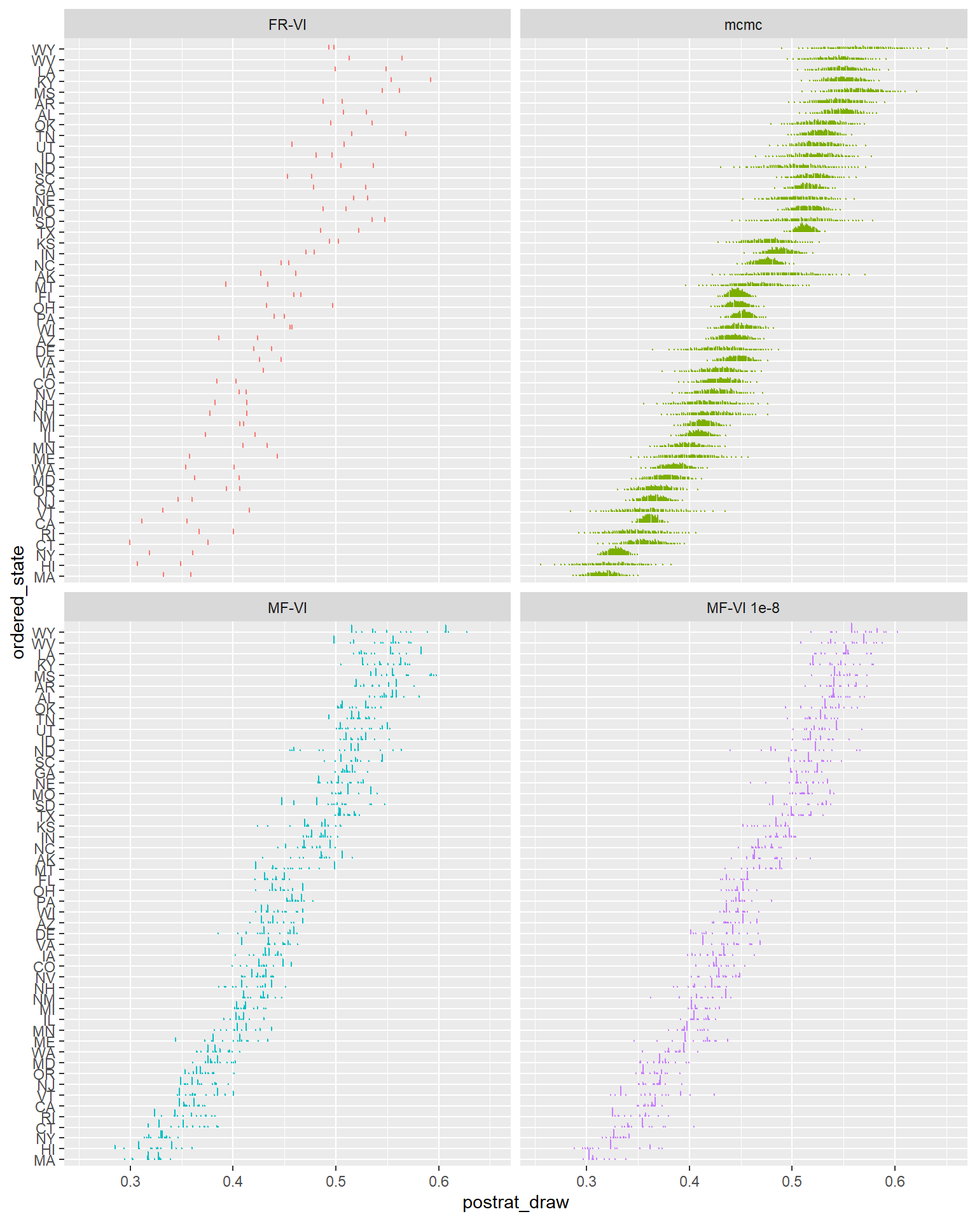
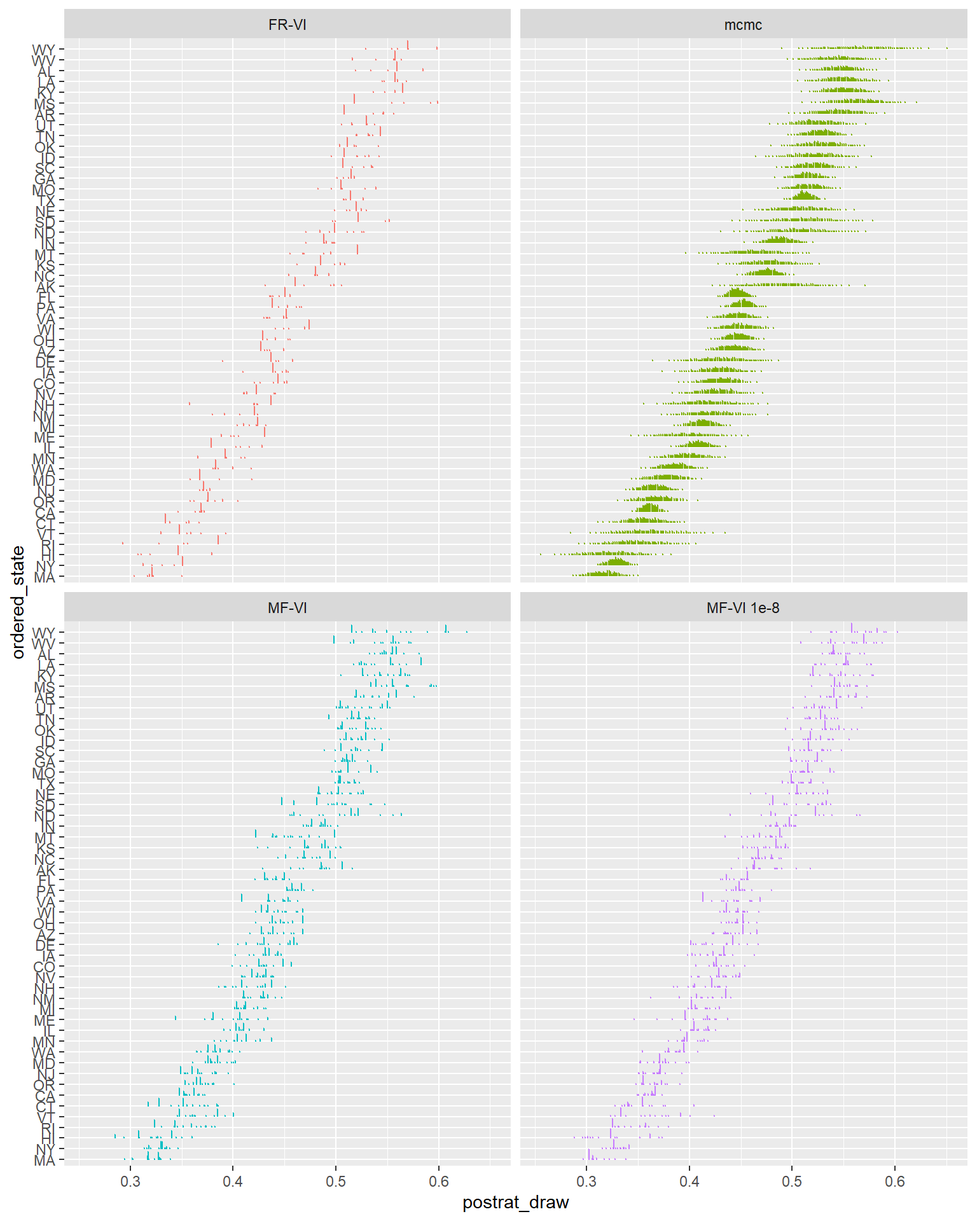
Realized the issue was plateau in loss and adjusted text to show that

diff --git a/docs/posts/Variational MRP Pt2/Variational_MRP_pt2.html b/docs/posts/Variational MRP Pt2/Variational_MRP_pt2.html
@@ -427,7 +427,7 @@ $ .epred     &lt;dbl&gt; 0.5771322, 0.5189677, 0.5483006, 0.5421404, 0.5417602, 
 <section id="lowering-the-tolerance" class="level2">
 <h2 class="anchored" data-anchor-id="lowering-the-tolerance">Lowering the tolerance</h2>
 <p>So we managed to structure our Bayesian inference problem as an optimization problem. Can’t we just optimize better? Maybe with more training the result will be less bad?</p>
-<p>the <code>tol_rel_obj</code> parameter control’s the convergence tolerance on the relative norm of the objective. In other words, it controls what Evidence Lower Bound value we consider accurate enough to stop at. The default is 0.01, which feels a bit opaque, but let’s try setting it way down to 1e-8 (1Mx lower). Then we can plot it alongside the MCMC estimates and original MF-VI attempt.</p>
+<p>the <code>tol_rel_obj</code> parameter control’s the convergence tolerance on the relative norm of the objective. In other words, it controls what Evidence Lower Bound value we consider accurate enough to stop at. The default is 0.01, which feels a bit opaque, but let’s try setting it way down to 1e-8 (1Mx lower), and further, let’s increase the max iterations 10x. Then we can plot it alongside the MCMC estimates and original MF-VI attempt.</p>
 <div class="cell" data-warnings="false">
 <div class="sourceCode cell-code" id="cb6"><pre class="sourceCode r code-with-copy"><code class="sourceCode r"><span id="cb6-1"><a href="#cb6-1" aria-hidden="true" tabindex="-1"></a><span class="fu">tic</span>()</span>
 <span id="cb6-2"><a href="#cb6-2" aria-hidden="true" tabindex="-1"></a>fit_60k_1e8 <span class="ot">&lt;-</span> <span class="fu">stan_glmer</span>(abortion <span class="sc">~</span> (<span class="dv">1</span> <span class="sc">|</span> state) <span class="sc">+</span> (<span class="dv">1</span> <span class="sc">|</span> eth) <span class="sc">+</span> (<span class="dv">1</span> <span class="sc">|</span> educ) <span class="sc">+</span></span>
@@ -438,10 +438,141 @@ $ .epred     &lt;dbl&gt; 0.5771322, 0.5189677, 0.5483006, 0.5421404, 0.5417602, 
 <span id="cb6-7"><a href="#cb6-7" aria-hidden="true" tabindex="-1"></a>  <span class="at">prior =</span> <span class="fu">normal</span>(<span class="dv">0</span>, <span class="dv">1</span>, <span class="at">autoscale =</span> <span class="cn">TRUE</span>),</span>
 <span id="cb6-8"><a href="#cb6-8" aria-hidden="true" tabindex="-1"></a>  <span class="at">prior_covariance =</span> <span class="fu">decov</span>(<span class="at">scale =</span> <span class="fl">0.50</span>),</span>
 <span id="cb6-9"><a href="#cb6-9" aria-hidden="true" tabindex="-1"></a>  <span class="at">adapt_delta =</span> <span class="fl">0.99</span>,</span>
-<span id="cb6-10"><a href="#cb6-10" aria-hidden="true" tabindex="-1"></a>  <span class="at">refresh =</span> <span class="dv">0</span>,</span>
-<span id="cb6-11"><a href="#cb6-11" aria-hidden="true" tabindex="-1"></a>  <span class="at">tol_rel_obj =</span> <span class="fl">1e-8</span>,</span>
-<span id="cb6-12"><a href="#cb6-12" aria-hidden="true" tabindex="-1"></a>  <span class="at">algorithm =</span> <span class="st">"meanfield"</span>,</span>
-<span id="cb6-13"><a href="#cb6-13" aria-hidden="true" tabindex="-1"></a>  <span class="at">seed =</span> <span class="dv">605</span>)</span></code><button title="Copy to Clipboard" class="code-copy-button"><i class="bi"></i></button></pre></div>
+<span id="cb6-10"><a href="#cb6-10" aria-hidden="true" tabindex="-1"></a>  <span class="co"># Printing the ELBO every 1k draws</span></span>
+<span id="cb6-11"><a href="#cb6-11" aria-hidden="true" tabindex="-1"></a>  <span class="at">refresh =</span> <span class="dv">1000</span>,</span>
+<span id="cb6-12"><a href="#cb6-12" aria-hidden="true" tabindex="-1"></a>  <span class="at">tol_rel_obj =</span> <span class="fl">1e-8</span>,</span>
+<span id="cb6-13"><a href="#cb6-13" aria-hidden="true" tabindex="-1"></a>  <span class="at">algorithm =</span> <span class="st">"meanfield"</span>,</span>
+<span id="cb6-14"><a href="#cb6-14" aria-hidden="true" tabindex="-1"></a>  <span class="at">seed =</span> <span class="dv">605</span>)</span></code><button title="Copy to Clipboard" class="code-copy-button"><i class="bi"></i></button></pre></div>
+<div class="cell-output cell-output-stdout">
+<pre><code>Chain 1: ------------------------------------------------------------
+Chain 1: EXPERIMENTAL ALGORITHM:
+Chain 1:   This procedure has not been thoroughly tested and may be unstable
+Chain 1:   or buggy. The interface is subject to change.
+Chain 1: ------------------------------------------------------------
+Chain 1: 
+Chain 1: 
+Chain 1: 
+Chain 1: Gradient evaluation took 0.022 seconds
+Chain 1: 1000 transitions using 10 leapfrog steps per transition would take 220 seconds.
+Chain 1: Adjust your expectations accordingly!
+Chain 1: 
+Chain 1: 
+Chain 1: Begin eta adaptation.
+Chain 1: Iteration:   1 / 250 [  0%]  (Adaptation)
+Chain 1: Iteration:  50 / 250 [ 20%]  (Adaptation)
+Chain 1: Iteration: 100 / 250 [ 40%]  (Adaptation)
+Chain 1: Iteration: 150 / 250 [ 60%]  (Adaptation)
+Chain 1: Iteration: 200 / 250 [ 80%]  (Adaptation)
+Chain 1: Success! Found best value [eta = 1] earlier than expected.
+Chain 1: 
+Chain 1: Begin stochastic gradient ascent.
+Chain 1:   iter             ELBO   delta_ELBO_mean   delta_ELBO_med   notes 
+Chain 1:    100       -40291.889             1.000            1.000
+Chain 1:    200       -39947.669             0.504            1.000
+Chain 1:    300       -39802.182             0.337            0.009
+Chain 1:    400       -39776.283             0.253            0.009
+Chain 1:    500       -39733.863             0.203            0.004
+Chain 1:    600       -39733.198             0.169            0.004
+Chain 1:    700       -39728.255             0.145            0.001
+Chain 1:    800       -39784.557             0.127            0.001
+Chain 1:    900       -39724.366             0.113            0.001
+Chain 1:   1000       -39732.042             0.102            0.001
+Chain 1:   1100       -39731.525             0.002            0.001
+Chain 1:   1200       -39732.049             0.001            0.001
+Chain 1:   1300       -39728.119             0.001            0.000
+Chain 1:   1400       -39740.928             0.000            0.000
+Chain 1:   1500       -39726.114             0.000            0.000
+Chain 1:   1600       -39734.740             0.000            0.000
+Chain 1:   1700       -39734.129             0.000            0.000
+Chain 1:   1800       -39740.719             0.000            0.000
+Chain 1:   1900       -39743.591             0.000            0.000
+Chain 1:   2000       -39737.155             0.000            0.000
+Chain 1:   2100       -39720.432             0.000            0.000
+Chain 1:   2200       -39738.138             0.000            0.000
+Chain 1:   2300       -39731.045             0.000            0.000
+Chain 1:   2400       -39716.393             0.000            0.000
+Chain 1:   2500       -39729.189             0.000            0.000
+Chain 1:   2600       -39722.239             0.000            0.000
+Chain 1:   2700       -39719.508             0.000            0.000
+Chain 1:   2800       -39718.709             0.000            0.000
+Chain 1:   2900       -39735.110             0.000            0.000
+Chain 1:   3000       -39725.900             0.000            0.000
+Chain 1:   3100       -39726.123             0.000            0.000
+Chain 1:   3200       -39718.736             0.000            0.000
+Chain 1:   3300       -39718.141             0.000            0.000
+Chain 1:   3400       -39717.147             0.000            0.000
+Chain 1:   3500       -39725.738             0.000            0.000
+Chain 1:   3600       -39732.190             0.000            0.000
+Chain 1:   3700       -39723.666             0.000            0.000
+Chain 1:   3800       -39725.470             0.000            0.000
+Chain 1:   3900       -39741.504             0.000            0.000
+Chain 1:   4000       -39722.951             0.000            0.000
+Chain 1:   4100       -39721.852             0.000            0.000
+Chain 1:   4200       -39717.894             0.000            0.000
+Chain 1:   4300       -39717.474             0.000            0.000
+Chain 1:   4400       -39716.244             0.000            0.000
+Chain 1:   4500       -39727.542             0.000            0.000
+Chain 1:   4600       -39716.670             0.000            0.000
+Chain 1:   4700       -39723.714             0.000            0.000
+Chain 1:   4800       -39727.123             0.000            0.000
+Chain 1:   4900       -39722.517             0.000            0.000
+Chain 1:   5000       -39722.485             0.000            0.000
+Chain 1:   5100       -39719.107             0.000            0.000
+Chain 1:   5200       -39722.873             0.000            0.000
+Chain 1:   5300       -39720.153             0.000            0.000
+Chain 1:   5400       -39718.807             0.000            0.000
+Chain 1:   5500       -39719.687             0.000            0.000
+Chain 1:   5600       -39730.850             0.000            0.000
+Chain 1:   5700       -39719.315             0.000            0.000
+Chain 1:   5800       -39717.985             0.000            0.000
+Chain 1:   5900       -39715.943             0.000            0.000
+Chain 1:   6000       -39721.574             0.000            0.000
+Chain 1:   6100       -39716.072             0.000            0.000
+Chain 1:   6200       -39715.947             0.000            0.000
+Chain 1:   6300       -39716.325             0.000            0.000
+Chain 1:   6400       -39716.206             0.000            0.000
+Chain 1:   6500       -39720.508             0.000            0.000
+Chain 1:   6600       -39717.566             0.000            0.000
+Chain 1:   6700       -39718.903             0.000            0.000
+Chain 1:   6800       -39716.766             0.000            0.000
+Chain 1:   6900       -39724.482             0.000            0.000
+Chain 1:   7000       -39717.376             0.000            0.000
+Chain 1:   7100       -39721.566             0.000            0.000
+Chain 1:   7200       -39725.641             0.000            0.000
+Chain 1:   7300       -39717.909             0.000            0.000
+Chain 1:   7400       -39720.096             0.000            0.000
+Chain 1:   7500       -39716.243             0.000            0.000
+Chain 1:   7600       -39738.451             0.000            0.000
+Chain 1:   7700       -39715.841             0.000            0.000
+Chain 1:   7800       -39716.561             0.000            0.000
+Chain 1:   7900       -39716.865             0.000            0.000
+Chain 1:   8000       -39721.972             0.000            0.000
+Chain 1:   8100       -39723.864             0.000            0.000
+Chain 1:   8200       -39716.157             0.000            0.000
+Chain 1:   8300       -39720.235             0.000            0.000
+Chain 1:   8400       -39718.693             0.000            0.000
+Chain 1:   8500       -39727.325             0.000            0.000
+Chain 1:   8600       -39716.809             0.000            0.000
+Chain 1:   8700       -39716.760             0.000            0.000
+Chain 1:   8800       -39721.577             0.000            0.000
+Chain 1:   8900       -39716.910             0.000            0.000
+Chain 1:   9000       -39721.631             0.000            0.000
+Chain 1:   9100       -39721.102             0.000            0.000
+Chain 1:   9200       -39718.303             0.000            0.000
+Chain 1:   9300       -39715.759             0.000            0.000
+Chain 1:   9400       -39719.769             0.000            0.000
+Chain 1:   9500       -39719.046             0.000            0.000
+Chain 1:   9600       -39720.854             0.000            0.000
+Chain 1:   9700       -39717.968             0.000            0.000
+Chain 1:   9800       -39721.396             0.000            0.000
+Chain 1:   9900       -39728.139             0.000            0.000
+Chain 1:   10000       -39715.367             0.000            0.000
+Chain 1: Informational Message: The maximum number of iterations is reached! The algorithm may not have converged.
+Chain 1: This variational approximation is not guaranteed to be meaningful.
+Chain 1: 
+Chain 1: Drawing a sample of size 1000 from the approximate posterior... 
+Chain 1: COMPLETED.</code></pre>
+</div>
 <div class="cell-output cell-output-stderr">
 <pre><code>Warning: Pareto k diagnostic value is 2.05. Resampling is disabled. Decreasing
 tol_rel_obj may help if variational algorithm has terminated prematurely.
@@ -450,92 +581,96 @@ Otherwise consider using sampling instead.</code></pre>
 <div class="cell-output cell-output-stderr">
 <pre><code>Setting 'QR' to TRUE can often be helpful when using one of the variational inference algorithms. See the documentation for the 'QR' argument.</code></pre>
 </div>
-<div class="sourceCode cell-code" id="cb9"><pre class="sourceCode r code-with-copy"><code class="sourceCode r"><span id="cb9-1"><a href="#cb9-1" aria-hidden="true" tabindex="-1"></a><span class="fu">toc</span>()</span></code><button title="Copy to Clipboard" class="code-copy-button"><i class="bi"></i></button></pre></div>
+<div class="sourceCode cell-code" id="cb10"><pre class="sourceCode r code-with-copy"><code class="sourceCode r"><span id="cb10-1"><a href="#cb10-1" aria-hidden="true" tabindex="-1"></a><span class="fu">toc</span>()</span></code><button title="Copy to Clipboard" class="code-copy-button"><i class="bi"></i></button></pre></div>
 <div class="cell-output cell-output-stdout">
-<pre><code>332.94 sec elapsed</code></pre>
+<pre><code>256 sec elapsed</code></pre>
 </div>
-<div class="sourceCode cell-code" id="cb11"><pre class="sourceCode r code-with-copy"><code class="sourceCode r"><span id="cb11-1"><a href="#cb11-1" aria-hidden="true" tabindex="-1"></a>lower_tol_draws <span class="ot">&lt;-</span> poststrat_df_60k <span class="sc">%&gt;%</span> <span class="fu">add_epred_draws</span>(fit_60k_1e8, <span class="at">ndraws =</span> <span class="dv">1000</span>)</span>
-<span id="cb11-2"><a href="#cb11-2" aria-hidden="true" tabindex="-1"></a></span>
-<span id="cb11-3"><a href="#cb11-3" aria-hidden="true" tabindex="-1"></a>mfvi_lower_tol_points <span class="ot">&lt;-</span> lower_tol_draws <span class="sc">%&gt;%</span> </span>
-<span id="cb11-4"><a href="#cb11-4" aria-hidden="true" tabindex="-1"></a>                        <span class="fu">group_by</span>(state,.draw) <span class="sc">%&gt;%</span></span>
-<span id="cb11-5"><a href="#cb11-5" aria-hidden="true" tabindex="-1"></a>                        <span class="fu">summarize</span>(<span class="at">postrat_draw =</span> <span class="fu">sum</span>(.epred<span class="sc">*</span>(n<span class="sc">/</span><span class="fu">sum</span>(n)))) <span class="sc">%&gt;%</span></span>
-<span id="cb11-6"><a href="#cb11-6" aria-hidden="true" tabindex="-1"></a>                        <span class="fu">mutate</span>(<span class="at">model =</span> <span class="st">"MF-VI 1e-8"</span>)</span>
-<span id="cb11-7"><a href="#cb11-7" aria-hidden="true" tabindex="-1"></a></span>
-<span id="cb11-8"><a href="#cb11-8" aria-hidden="true" tabindex="-1"></a>combined_points_w_lower_tol <span class="ot">&lt;-</span> combined_points <span class="sc">%&gt;%</span></span>
-<span id="cb11-9"><a href="#cb11-9" aria-hidden="true" tabindex="-1"></a>                      <span class="fu">bind_rows</span>(mfvi_lower_tol_points) <span class="sc">%&gt;%</span></span>
-<span id="cb11-10"><a href="#cb11-10" aria-hidden="true" tabindex="-1"></a>                      <span class="fu">ungroup</span>()</span>
-<span id="cb11-11"><a href="#cb11-11" aria-hidden="true" tabindex="-1"></a></span>
-<span id="cb11-12"><a href="#cb11-12" aria-hidden="true" tabindex="-1"></a>combined_points_w_lower_tol <span class="sc">%&gt;%</span></span>
-<span id="cb11-13"><a href="#cb11-13" aria-hidden="true" tabindex="-1"></a>  <span class="fu">mutate</span>(<span class="at">ordered_state =</span> <span class="fu">fct_reorder</span>(combined_points_w_lower_tol<span class="sc">$</span>state,</span>
-<span id="cb11-14"><a href="#cb11-14" aria-hidden="true" tabindex="-1"></a>                                     combined_points_w_lower_tol<span class="sc">$</span>postrat_draw)) <span class="sc">%&gt;%</span></span>
-<span id="cb11-15"><a href="#cb11-15" aria-hidden="true" tabindex="-1"></a>  <span class="fu">ggplot</span>(<span class="fu">aes</span>(<span class="at">y =</span> ordered_state,</span>
-<span id="cb11-16"><a href="#cb11-16" aria-hidden="true" tabindex="-1"></a>             <span class="at">x =</span> postrat_draw,</span>
-<span id="cb11-17"><a href="#cb11-17" aria-hidden="true" tabindex="-1"></a>             <span class="at">color =</span> model)) <span class="sc">+</span></span>
-<span id="cb11-18"><a href="#cb11-18" aria-hidden="true" tabindex="-1"></a>     <span class="fu">stat_dots</span>(<span class="at">quantiles =</span> <span class="dv">100</span>) <span class="sc">+</span></span>
-<span id="cb11-19"><a href="#cb11-19" aria-hidden="true" tabindex="-1"></a>     <span class="fu">facet_wrap</span>(<span class="sc">~</span>model) <span class="sc">+</span></span>
-<span id="cb11-20"><a href="#cb11-20" aria-hidden="true" tabindex="-1"></a>     <span class="fu">theme</span>(<span class="at">legend.position=</span><span class="st">"none"</span>)</span></code><button title="Copy to Clipboard" class="code-copy-button"><i class="bi"></i></button></pre></div>
+<div class="sourceCode cell-code" id="cb12"><pre class="sourceCode r code-with-copy"><code class="sourceCode r"><span id="cb12-1"><a href="#cb12-1" aria-hidden="true" tabindex="-1"></a>lower_tol_draws <span class="ot">&lt;-</span> poststrat_df_60k <span class="sc">%&gt;%</span> <span class="fu">add_epred_draws</span>(fit_60k_1e8, <span class="at">ndraws =</span> <span class="dv">1000</span>)</span>
+<span id="cb12-2"><a href="#cb12-2" aria-hidden="true" tabindex="-1"></a></span>
+<span id="cb12-3"><a href="#cb12-3" aria-hidden="true" tabindex="-1"></a>mfvi_lower_tol_points <span class="ot">&lt;-</span> lower_tol_draws <span class="sc">%&gt;%</span> </span>
+<span id="cb12-4"><a href="#cb12-4" aria-hidden="true" tabindex="-1"></a>                        <span class="fu">group_by</span>(state,.draw) <span class="sc">%&gt;%</span></span>
+<span id="cb12-5"><a href="#cb12-5" aria-hidden="true" tabindex="-1"></a>                        <span class="fu">summarize</span>(<span class="at">postrat_draw =</span> <span class="fu">sum</span>(.epred<span class="sc">*</span>(n<span class="sc">/</span><span class="fu">sum</span>(n)))) <span class="sc">%&gt;%</span></span>
+<span id="cb12-6"><a href="#cb12-6" aria-hidden="true" tabindex="-1"></a>                        <span class="fu">mutate</span>(<span class="at">model =</span> <span class="st">"MF-VI 1e-8"</span>)</span>
+<span id="cb12-7"><a href="#cb12-7" aria-hidden="true" tabindex="-1"></a></span>
+<span id="cb12-8"><a href="#cb12-8" aria-hidden="true" tabindex="-1"></a>combined_points_w_lower_tol <span class="ot">&lt;-</span> combined_points <span class="sc">%&gt;%</span></span>
+<span id="cb12-9"><a href="#cb12-9" aria-hidden="true" tabindex="-1"></a>                      <span class="fu">bind_rows</span>(mfvi_lower_tol_points) <span class="sc">%&gt;%</span></span>
+<span id="cb12-10"><a href="#cb12-10" aria-hidden="true" tabindex="-1"></a>                      <span class="fu">ungroup</span>()</span>
+<span id="cb12-11"><a href="#cb12-11" aria-hidden="true" tabindex="-1"></a></span>
+<span id="cb12-12"><a href="#cb12-12" aria-hidden="true" tabindex="-1"></a>combined_points_w_lower_tol <span class="sc">%&gt;%</span></span>
+<span id="cb12-13"><a href="#cb12-13" aria-hidden="true" tabindex="-1"></a>  <span class="fu">mutate</span>(<span class="at">ordered_state =</span> <span class="fu">fct_reorder</span>(combined_points_w_lower_tol<span class="sc">$</span>state,</span>
+<span id="cb12-14"><a href="#cb12-14" aria-hidden="true" tabindex="-1"></a>                                     combined_points_w_lower_tol<span class="sc">$</span>postrat_draw)) <span class="sc">%&gt;%</span></span>
+<span id="cb12-15"><a href="#cb12-15" aria-hidden="true" tabindex="-1"></a>  <span class="fu">ggplot</span>(<span class="fu">aes</span>(<span class="at">y =</span> ordered_state,</span>
+<span id="cb12-16"><a href="#cb12-16" aria-hidden="true" tabindex="-1"></a>             <span class="at">x =</span> postrat_draw,</span>
+<span id="cb12-17"><a href="#cb12-17" aria-hidden="true" tabindex="-1"></a>             <span class="at">color =</span> model)) <span class="sc">+</span></span>
+<span id="cb12-18"><a href="#cb12-18" aria-hidden="true" tabindex="-1"></a>     <span class="fu">stat_dots</span>(<span class="at">quantiles =</span> <span class="dv">100</span>) <span class="sc">+</span></span>
+<span id="cb12-19"><a href="#cb12-19" aria-hidden="true" tabindex="-1"></a>     <span class="fu">facet_wrap</span>(<span class="sc">~</span>model) <span class="sc">+</span></span>
+<span id="cb12-20"><a href="#cb12-20" aria-hidden="true" tabindex="-1"></a>     <span class="fu">theme</span>(<span class="at">legend.position=</span><span class="st">"none"</span>)</span></code><button title="Copy to Clipboard" class="code-copy-button"><i class="bi"></i></button></pre></div>
 <div class="cell-output-display">
 <p><img src="Variational_MRP_pt2_files/figure-html/unnamed-chunk-6-1.png" class="img-fluid" width="768"></p>
 </div>
 </div>
-<p>… That certainly looks different, but I don’t really think I’d say it looks meaningfully better. It doesn’t seem like further optimization is remaining coupled with better looking estimates.</p>
+<p>… That certainly looks different, but I don’t really think I’d say it looks meaningfully better.</p>
+<p>Looking at the printed out ELBO, it’s pretty clear that there was no traction after the first ~1000 samples. A variational family this simple isn’t going to get much better, no matter how much time you give it.</p>
 </section>
 <section id="full-rank-approximation" class="level2">
 <h2 class="anchored" data-anchor-id="full-rank-approximation">Full-Rank Approximation</h2>
-<p>So if we can lower our ELBO, but improvements don’t result, maybe the next option is ask whether we need something more sophisticated than a mean-field approximation. Instead of</p>
+<p>So if extend training time, but improvements don’t result, maybe the next option is ask whether we need something more sophisticated than a mean-field approximation. Instead of</p>
 <p><span class="math display">q(z) = \prod_{j=1}^{m} q_j(z_j)</span></p>
 <p>let’s now try the full-rank approximation. Gather than each <span class="math inline">z_j</span> getting it’s own independent Gaussian, this uses a single multivariate normal distribution- so we can now (roughly) learn correlation structure, fancy.</p>
 <p><span class="math display">q(z) = \mathcal{N}(z|\mu,\Sigma)</span></p>
 <div class="cell" data-warnings="false">
-<div class="sourceCode cell-code" id="cb12"><pre class="sourceCode r code-with-copy"><code class="sourceCode r"><span id="cb12-1"><a href="#cb12-1" aria-hidden="true" tabindex="-1"></a><span class="fu">tic</span>()</span>
-<span id="cb12-2"><a href="#cb12-2" aria-hidden="true" tabindex="-1"></a>fit_60k_fullrank <span class="ot">&lt;-</span> <span class="fu">stan_glmer</span>(abortion <span class="sc">~</span> (<span class="dv">1</span> <span class="sc">|</span> state) <span class="sc">+</span> (<span class="dv">1</span> <span class="sc">|</span> eth) <span class="sc">+</span> (<span class="dv">1</span> <span class="sc">|</span> educ) <span class="sc">+</span></span>
-<span id="cb12-3"><a href="#cb12-3" aria-hidden="true" tabindex="-1"></a>                                      male <span class="sc">+</span> (<span class="dv">1</span> <span class="sc">|</span> male<span class="sc">:</span>eth) <span class="sc">+</span> (<span class="dv">1</span> <span class="sc">|</span> educ<span class="sc">:</span>age) <span class="sc">+</span></span>
-<span id="cb12-4"><a href="#cb12-4" aria-hidden="true" tabindex="-1"></a>                                      (<span class="dv">1</span> <span class="sc">|</span> educ<span class="sc">:</span>eth) <span class="sc">+</span> repvote <span class="sc">+</span> <span class="fu">factor</span>(region),</span>
-<span id="cb12-5"><a href="#cb12-5" aria-hidden="true" tabindex="-1"></a>  <span class="at">family =</span> <span class="fu">binomial</span>(<span class="at">link =</span> <span class="st">"logit"</span>),</span>
-<span id="cb12-6"><a href="#cb12-6" aria-hidden="true" tabindex="-1"></a>  <span class="at">data =</span> cces_all_df,</span>
-<span id="cb12-7"><a href="#cb12-7" aria-hidden="true" tabindex="-1"></a>  <span class="at">prior =</span> <span class="fu">normal</span>(<span class="dv">0</span>, <span class="dv">1</span>, <span class="at">autoscale =</span> <span class="cn">TRUE</span>),</span>
-<span id="cb12-8"><a href="#cb12-8" aria-hidden="true" tabindex="-1"></a>  <span class="at">prior_covariance =</span> <span class="fu">decov</span>(<span class="at">scale =</span> <span class="fl">0.50</span>),</span>
-<span id="cb12-9"><a href="#cb12-9" aria-hidden="true" tabindex="-1"></a>  <span class="at">adapt_delta =</span> <span class="fl">0.99</span>,</span>
-<span id="cb12-10"><a href="#cb12-10" aria-hidden="true" tabindex="-1"></a>  <span class="at">refresh =</span> <span class="dv">0</span>,</span>
-<span id="cb12-11"><a href="#cb12-11" aria-hidden="true" tabindex="-1"></a>  <span class="co">#tol_rel_obj = 1e-4,</span></span>
-<span id="cb12-12"><a href="#cb12-12" aria-hidden="true" tabindex="-1"></a>  <span class="at">init =</span> <span class="dv">0</span>,</span>
-<span id="cb12-13"><a href="#cb12-13" aria-hidden="true" tabindex="-1"></a>  <span class="at">algorithm =</span> <span class="st">"fullrank"</span>,</span>
-<span id="cb12-14"><a href="#cb12-14" aria-hidden="true" tabindex="-1"></a>  <span class="at">seed =</span> <span class="dv">605</span>)</span></code><button title="Copy to Clipboard" class="code-copy-button"><i class="bi"></i></button></pre></div>
+<div class="sourceCode cell-code" id="cb13"><pre class="sourceCode r code-with-copy"><code class="sourceCode r"><span id="cb13-1"><a href="#cb13-1" aria-hidden="true" tabindex="-1"></a><span class="fu">tic</span>()</span>
+<span id="cb13-2"><a href="#cb13-2" aria-hidden="true" tabindex="-1"></a>fit_60k_fullrank <span class="ot">&lt;-</span> <span class="fu">stan_glmer</span>(abortion <span class="sc">~</span> (<span class="dv">1</span> <span class="sc">|</span> state) <span class="sc">+</span> (<span class="dv">1</span> <span class="sc">|</span> eth) <span class="sc">+</span> (<span class="dv">1</span> <span class="sc">|</span> educ) <span class="sc">+</span></span>
+<span id="cb13-3"><a href="#cb13-3" aria-hidden="true" tabindex="-1"></a>                                      male <span class="sc">+</span> (<span class="dv">1</span> <span class="sc">|</span> male<span class="sc">:</span>eth) <span class="sc">+</span> (<span class="dv">1</span> <span class="sc">|</span> educ<span class="sc">:</span>age) <span class="sc">+</span></span>
+<span id="cb13-4"><a href="#cb13-4" aria-hidden="true" tabindex="-1"></a>                                      (<span class="dv">1</span> <span class="sc">|</span> educ<span class="sc">:</span>eth) <span class="sc">+</span> repvote <span class="sc">+</span> <span class="fu">factor</span>(region),</span>
+<span id="cb13-5"><a href="#cb13-5" aria-hidden="true" tabindex="-1"></a>  <span class="at">family =</span> <span class="fu">binomial</span>(<span class="at">link =</span> <span class="st">"logit"</span>),</span>
+<span id="cb13-6"><a href="#cb13-6" aria-hidden="true" tabindex="-1"></a>  <span class="at">data =</span> cces_all_df,</span>
+<span id="cb13-7"><a href="#cb13-7" aria-hidden="true" tabindex="-1"></a>  <span class="at">prior =</span> <span class="fu">normal</span>(<span class="dv">0</span>, <span class="dv">1</span>, <span class="at">autoscale =</span> <span class="cn">TRUE</span>),</span>
+<span id="cb13-8"><a href="#cb13-8" aria-hidden="true" tabindex="-1"></a>  <span class="at">prior_covariance =</span> <span class="fu">decov</span>(<span class="at">scale =</span> <span class="fl">0.50</span>),</span>
+<span id="cb13-9"><a href="#cb13-9" aria-hidden="true" tabindex="-1"></a>  <span class="at">adapt_delta =</span> <span class="fl">0.99</span>,</span>
+<span id="cb13-10"><a href="#cb13-10" aria-hidden="true" tabindex="-1"></a>  <span class="at">refresh =</span> <span class="dv">0</span>,</span>
+<span id="cb13-11"><a href="#cb13-11" aria-hidden="true" tabindex="-1"></a>  <span class="at">tol_rel_obj =</span> <span class="fl">1e-8</span>,</span>
+<span id="cb13-12"><a href="#cb13-12" aria-hidden="true" tabindex="-1"></a>  <span class="co"># Printing the ELBO every 1k draws</span></span>
+<span id="cb13-13"><a href="#cb13-13" aria-hidden="true" tabindex="-1"></a>  <span class="at">refresh =</span> <span class="dv">1000</span>,</span>
+<span id="cb13-14"><a href="#cb13-14" aria-hidden="true" tabindex="-1"></a>  <span class="at">algorithm =</span> <span class="st">"fullrank"</span>,</span>
+<span id="cb13-15"><a href="#cb13-15" aria-hidden="true" tabindex="-1"></a>  <span class="at">QR =</span> <span class="cn">TRUE</span>,</span>
+<span id="cb13-16"><a href="#cb13-16" aria-hidden="true" tabindex="-1"></a>  <span class="at">seed =</span> <span class="dv">605</span>)</span></code><button title="Copy to Clipboard" class="code-copy-button"><i class="bi"></i></button></pre></div>
 <div class="cell-output cell-output-stderr">
-<pre><code>Warning: Pareto k diagnostic value is 44.16. Resampling is disabled. Decreasing
+<pre><code>Warning: Pareto k diagnostic value is 2.95. Resampling is disabled. Decreasing
 tol_rel_obj may help if variational algorithm has terminated prematurely.
 Otherwise consider using sampling instead.</code></pre>
 </div>
-<div class="sourceCode cell-code" id="cb14"><pre class="sourceCode r code-with-copy"><code class="sourceCode r"><span id="cb14-1"><a href="#cb14-1" aria-hidden="true" tabindex="-1"></a><span class="fu">toc</span>()</span></code><button title="Copy to Clipboard" class="code-copy-button"><i class="bi"></i></button></pre></div>
+<div class="sourceCode cell-code" id="cb15"><pre class="sourceCode r code-with-copy"><code class="sourceCode r"><span id="cb15-1"><a href="#cb15-1" aria-hidden="true" tabindex="-1"></a><span class="fu">toc</span>()</span></code><button title="Copy to Clipboard" class="code-copy-button"><i class="bi"></i></button></pre></div>
 <div class="cell-output cell-output-stdout">
-<pre><code>302.17 sec elapsed</code></pre>
+<pre><code>357.28 sec elapsed</code></pre>
 </div>
-<div class="sourceCode cell-code" id="cb16"><pre class="sourceCode r code-with-copy"><code class="sourceCode r"><span id="cb16-1"><a href="#cb16-1" aria-hidden="true" tabindex="-1"></a>full_rank_draws <span class="ot">&lt;-</span> poststrat_df_60k <span class="sc">%&gt;%</span> <span class="fu">add_epred_draws</span>(fit_60k_fullrank,</span>
-<span id="cb16-2"><a href="#cb16-2" aria-hidden="true" tabindex="-1"></a>                                                        <span class="at">ndraws =</span> <span class="dv">1000</span>)</span>
-<span id="cb16-3"><a href="#cb16-3" aria-hidden="true" tabindex="-1"></a></span>
-<span id="cb16-4"><a href="#cb16-4" aria-hidden="true" tabindex="-1"></a>frvi_points <span class="ot">&lt;-</span> full_rank_draws <span class="sc">%&gt;%</span> </span>
-<span id="cb16-5"><a href="#cb16-5" aria-hidden="true" tabindex="-1"></a>                        <span class="fu">group_by</span>(state,.draw) <span class="sc">%&gt;%</span></span>
-<span id="cb16-6"><a href="#cb16-6" aria-hidden="true" tabindex="-1"></a>                        <span class="fu">summarize</span>(<span class="at">postrat_draw =</span> <span class="fu">sum</span>(.epred<span class="sc">*</span>(n<span class="sc">/</span><span class="fu">sum</span>(n)))) <span class="sc">%&gt;%</span></span>
-<span id="cb16-7"><a href="#cb16-7" aria-hidden="true" tabindex="-1"></a>                        <span class="fu">mutate</span>(<span class="at">model =</span> <span class="st">"FR-VI"</span>)</span>
-<span id="cb16-8"><a href="#cb16-8" aria-hidden="true" tabindex="-1"></a></span>
-<span id="cb16-9"><a href="#cb16-9" aria-hidden="true" tabindex="-1"></a>combined_points_w_frvi <span class="ot">&lt;-</span> combined_points_w_lower_tol <span class="sc">%&gt;%</span></span>
-<span id="cb16-10"><a href="#cb16-10" aria-hidden="true" tabindex="-1"></a>                      <span class="fu">bind_rows</span>(frvi_points) <span class="sc">%&gt;%</span></span>
-<span id="cb16-11"><a href="#cb16-11" aria-hidden="true" tabindex="-1"></a>                      <span class="fu">ungroup</span>()</span>
-<span id="cb16-12"><a href="#cb16-12" aria-hidden="true" tabindex="-1"></a></span>
-<span id="cb16-13"><a href="#cb16-13" aria-hidden="true" tabindex="-1"></a>combined_points_w_frvi <span class="sc">%&gt;%</span></span>
-<span id="cb16-14"><a href="#cb16-14" aria-hidden="true" tabindex="-1"></a>  <span class="fu">mutate</span>(<span class="at">ordered_state =</span> <span class="fu">fct_reorder</span>(combined_points_w_frvi<span class="sc">$</span>state,</span>
-<span id="cb16-15"><a href="#cb16-15" aria-hidden="true" tabindex="-1"></a>                                     combined_points_w_frvi<span class="sc">$</span>postrat_draw)) <span class="sc">%&gt;%</span></span>
-<span id="cb16-16"><a href="#cb16-16" aria-hidden="true" tabindex="-1"></a>  <span class="fu">ggplot</span>(<span class="fu">aes</span>(<span class="at">y =</span> ordered_state,</span>
-<span id="cb16-17"><a href="#cb16-17" aria-hidden="true" tabindex="-1"></a>             <span class="at">x =</span> postrat_draw,</span>
-<span id="cb16-18"><a href="#cb16-18" aria-hidden="true" tabindex="-1"></a>             <span class="at">color =</span> model)) <span class="sc">+</span></span>
-<span id="cb16-19"><a href="#cb16-19" aria-hidden="true" tabindex="-1"></a>     <span class="fu">stat_dots</span>(<span class="at">quantiles =</span> <span class="dv">100</span>) <span class="sc">+</span></span>
-<span id="cb16-20"><a href="#cb16-20" aria-hidden="true" tabindex="-1"></a>     <span class="fu">facet_wrap</span>(<span class="sc">~</span>model) <span class="sc">+</span></span>
-<span id="cb16-21"><a href="#cb16-21" aria-hidden="true" tabindex="-1"></a>     <span class="fu">theme</span>(<span class="at">legend.position=</span><span class="st">"none"</span>)</span></code><button title="Copy to Clipboard" class="code-copy-button"><i class="bi"></i></button></pre></div>
+<div class="sourceCode cell-code" id="cb17"><pre class="sourceCode r code-with-copy"><code class="sourceCode r"><span id="cb17-1"><a href="#cb17-1" aria-hidden="true" tabindex="-1"></a>full_rank_draws <span class="ot">&lt;-</span> poststrat_df_60k <span class="sc">%&gt;%</span> <span class="fu">add_epred_draws</span>(fit_60k_fullrank,</span>
+<span id="cb17-2"><a href="#cb17-2" aria-hidden="true" tabindex="-1"></a>                                                        <span class="at">ndraws =</span> <span class="dv">1000</span>)</span>
+<span id="cb17-3"><a href="#cb17-3" aria-hidden="true" tabindex="-1"></a></span>
+<span id="cb17-4"><a href="#cb17-4" aria-hidden="true" tabindex="-1"></a>frvi_points <span class="ot">&lt;-</span> full_rank_draws <span class="sc">%&gt;%</span> </span>
+<span id="cb17-5"><a href="#cb17-5" aria-hidden="true" tabindex="-1"></a>                        <span class="fu">group_by</span>(state,.draw) <span class="sc">%&gt;%</span></span>
+<span id="cb17-6"><a href="#cb17-6" aria-hidden="true" tabindex="-1"></a>                        <span class="fu">summarize</span>(<span class="at">postrat_draw =</span> <span class="fu">sum</span>(.epred<span class="sc">*</span>(n<span class="sc">/</span><span class="fu">sum</span>(n)))) <span class="sc">%&gt;%</span></span>
+<span id="cb17-7"><a href="#cb17-7" aria-hidden="true" tabindex="-1"></a>                        <span class="fu">mutate</span>(<span class="at">model =</span> <span class="st">"FR-VI"</span>)</span>
+<span id="cb17-8"><a href="#cb17-8" aria-hidden="true" tabindex="-1"></a></span>
+<span id="cb17-9"><a href="#cb17-9" aria-hidden="true" tabindex="-1"></a>combined_points_w_frvi <span class="ot">&lt;-</span> combined_points_w_lower_tol <span class="sc">%&gt;%</span></span>
+<span id="cb17-10"><a href="#cb17-10" aria-hidden="true" tabindex="-1"></a>                      <span class="fu">bind_rows</span>(frvi_points) <span class="sc">%&gt;%</span></span>
+<span id="cb17-11"><a href="#cb17-11" aria-hidden="true" tabindex="-1"></a>                      <span class="fu">ungroup</span>()</span>
+<span id="cb17-12"><a href="#cb17-12" aria-hidden="true" tabindex="-1"></a></span>
+<span id="cb17-13"><a href="#cb17-13" aria-hidden="true" tabindex="-1"></a>combined_points_w_frvi <span class="sc">%&gt;%</span></span>
+<span id="cb17-14"><a href="#cb17-14" aria-hidden="true" tabindex="-1"></a>  <span class="fu">mutate</span>(<span class="at">ordered_state =</span> <span class="fu">fct_reorder</span>(combined_points_w_frvi<span class="sc">$</span>state,</span>
+<span id="cb17-15"><a href="#cb17-15" aria-hidden="true" tabindex="-1"></a>                                     combined_points_w_frvi<span class="sc">$</span>postrat_draw)) <span class="sc">%&gt;%</span></span>
+<span id="cb17-16"><a href="#cb17-16" aria-hidden="true" tabindex="-1"></a>  <span class="fu">ggplot</span>(<span class="fu">aes</span>(<span class="at">y =</span> ordered_state,</span>
+<span id="cb17-17"><a href="#cb17-17" aria-hidden="true" tabindex="-1"></a>             <span class="at">x =</span> postrat_draw,</span>
+<span id="cb17-18"><a href="#cb17-18" aria-hidden="true" tabindex="-1"></a>             <span class="at">color =</span> model)) <span class="sc">+</span></span>
+<span id="cb17-19"><a href="#cb17-19" aria-hidden="true" tabindex="-1"></a>     <span class="fu">stat_dots</span>(<span class="at">quantiles =</span> <span class="dv">100</span>) <span class="sc">+</span></span>
+<span id="cb17-20"><a href="#cb17-20" aria-hidden="true" tabindex="-1"></a>     <span class="fu">facet_wrap</span>(<span class="sc">~</span>model) <span class="sc">+</span></span>
+<span id="cb17-21"><a href="#cb17-21" aria-hidden="true" tabindex="-1"></a>     <span class="fu">theme</span>(<span class="at">legend.position=</span><span class="st">"none"</span>)</span></code><button title="Copy to Clipboard" class="code-copy-button"><i class="bi"></i></button></pre></div>
 <div class="cell-output-display">
 <p><img src="Variational_MRP_pt2_files/figure-html/unnamed-chunk-7-1.png" class="img-fluid" width="768"></p>
 </div>
 </div>
-<p>The first thing to note here is that unlike the mean-field approximation, fitting this model wasn’t as simple as</p>
+<p>The first thing to note here is that unlike the mean-field approximation, fitting this model required some tinkering to get it to fit. I ended up needing to set <code>QR = TRUE</code> (ie, use a QR decomposition) to get this to fit at all (unless I set the initialization to 0, at which point the posterior collapsed to nearly) a single point.</p>
+<p>Unfortunately, this version has a similar spiky posterior distribution. It might even be worse than the mean-field try. Again, it looks like</p>
 </section>
 </section>
 <section id="where-to-from-here-why-is-it-like-this" class="level1">
